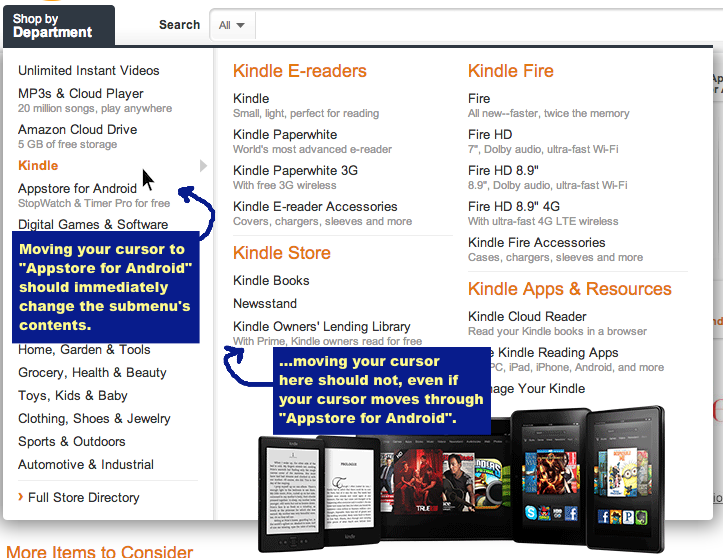
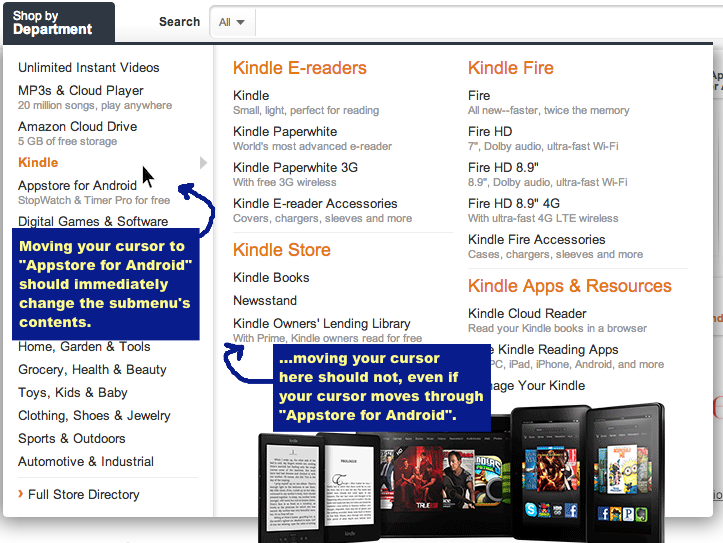
Docstring typo and screenshot fix

diff --git a/jquery.menu-aim.js b/jquery.menu-aim.js
@@ -3,8 +3,8 @@
  * between a user trying hover over a dropdown item vs trying to navigate into
  * a submenu's contents.
  *
- * menu-aim assumes that you have are using a menu with submenus that expand
- * to the menu's right. It will fire events when the user's mouse enters a new
+ * menu-aim assumes that you are using a menu with submenus that expand to the
+ * menu's right. It will fire events when the user's mouse enters a new
  * dropdown item *and* when that item is being intentionally hovered over.
  *
  * __________________________
